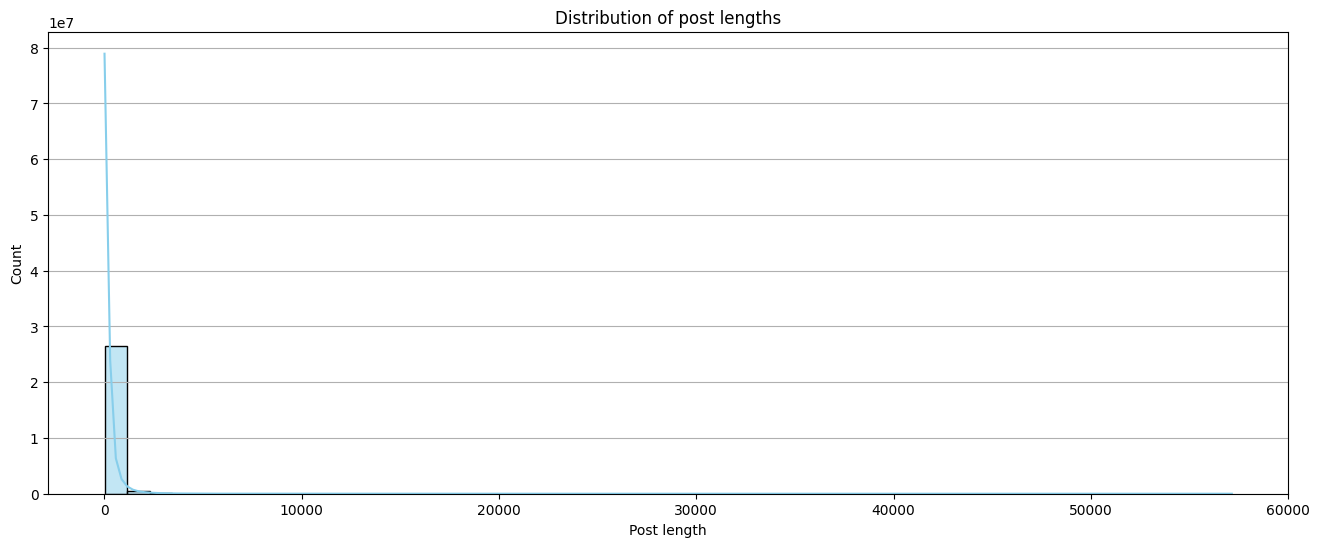
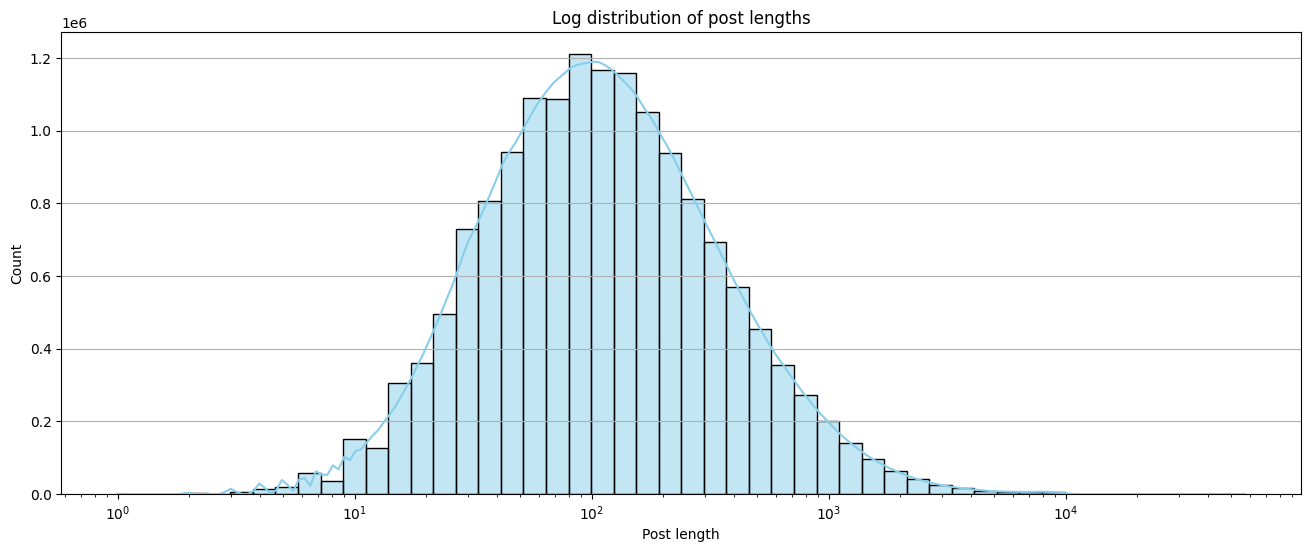
Update EDA.py, distOfPostLengths.png, distOfTypes.png, and 2 more files

diff --git a/EDA.py b/EDA.py
@@ -28,14 +28,15 @@ def basic_stats(ds):
 	ds["postLengths"] = ds["posts"].apply(len)
 	print(f"Post length describe:\n{ds.groupby('type')['postLengths'].describe()}")
 
+
 def visualize(ds):
 	'''
 	Visualize the dataset
 	'''
-	plt.figure(figsize=(16, 6)) # width, height of plots
+	plt.figure(figsize=(16, 6))
 
 	# distribution of types
-	sns.countplot(data=ds, x="type", order=ds["type"].value_counts().index, palette="viridis") # order by value counts. "viridis" is a color palette
+	sns.countplot(data=ds, x="type", order=ds["type"].value_counts().index, palette="magma") # order by value counts. "magma" is a color palette
 	plt.title("Distribution of types")
 	plt.ylabel("Count")
 	plt.xlabel("Type")
@@ -44,29 +45,32 @@ def visualize(ds):
 
 	# histogram for post lengths
 	plt.figure(figsize=(16, 6))
-	sns.histplot(ds["postLengths"], bins=50, color="skyblue", kde=True) # bins is the number of bars. kde is the density line
-	plt.title("Distribution of post lengths")
-	plt.ylabel("Count")
-	plt.xlabel("Post length")
+	sns.histplot(ds["postLengths"], bins=50, kde=True, log_scale=True) # bins is the number of bars. kde is the density line
+	plt.title("Log distribution of post lengths")
+	plt.ylabel("Count") # count of posts
+	plt.xlabel("Post length in characters") # length of posts
 	plt.grid(axis="y")
 	display(plt.show())
+	print(ds["postLengths"].describe())
 
 	# mean number of words per post
 	ds["nWords"] = ds["posts"].apply(lambda x: len(tokenize(x)))
 	meanWordsPerPost = ds.groupby("type")["nWords"].mean().sort_values(ascending=False)
 	plt.figure(figsize=(16, 6))
-	sns.barplot(x=meanWordsPerPost.index, y=meanWordsPerPost.values, palette="viridis")
+	sns.barplot(x=meanWordsPerPost.index, y=meanWordsPerPost.values, palette="magma")
 	plt.title("Mean number of words per post")
 	plt.ylabel("Mean number of words")
 	plt.xlabel("Type")
 	plt.grid(axis="y")
 	display(plt.show())
 
+
 def tokenize(posts):
 	'''
 	Tokenize the posts
 	'''
 	return posts.lower().replace("|||", " ").split()
+
 
 def gen_wordclouds(ds, type, nWords):
 	'''
@@ -91,27 +95,32 @@ def gen_wordclouds(ds, type, nWords):
 		plt.title(f"Wordcloud for {t} type")
 		display(plt.show())
 
+
 def plot_word_frequency(ds, words):
 	'''
 	Plot the frequency of words given as input
 	'''
-	# count the frequency of words for each type
 	totalCounts = defaultdict(int)
 	typeWordCounts = defaultdict(lambda: defaultdict(int))
-
 	typeCounts = ds["type"].value_counts()
+	try:
+		# count the frequency of words for each type>
+		def count_words(row):
+			post = row["posts"]
+			type = row["type"]
+			for w in words:
+				count = str(post).split().count(w)
+				totalCounts[w] += count
+				if w not in typeWordCounts[type]:
+					typeWordCounts[type][w] = 0
+				typeWordCounts[type][w] += count
 
-	def count_words(row):
-		post = row["posts"]
-		type = row["type"]
-		for w in words:
-			count = str(post).split().count(w)
-			totalCounts[w] += count
-			typeWordCounts[type][w] += count
+		ds.apply(count_words, axis=1)
 
-	ds.apply(count_words, axis=1)
-
-	meanFreqs = {word: {type: counts.get(word, 0) / typeCounts[type] for type, count in counts.items()} for word, counts in typeWordCounts.items()}
+		meanFreqs = {word: {type: counts.get(word, 0) / typeCounts[type] for type, count in counts.items()} for word, counts in typeWordCounts.items()}
+	except Exception as e:
+		print(e)
+		raise e
 
 	gc.collect()
 
@@ -137,16 +146,17 @@ def plot_word_frequency(ds, words):
 	
 
 if __name__ == "__main__":
-	ds = pd.read_csv("datasets/personality/MBTI/mbti_all_deduplicated_filtered.csv", dtype={"type": "category", "posts": "string"})
+	if "ds" not in locals(): # don't load the dataset if it's already loaded - Jupyter notebooks
+		ds = pd.read_csv("datasets/personality/MBTI/mbti_all_deduplicated_filtered.csv", dtype={"type": "category", "posts": "string"})
 
 	# sanity checks
 	print(ds.head())
-	print(ds["type"].value_counts())
-	print("Shape:", ds.shape)
 	print("Columns:", ds.columns)
 	print("Describe:", ds.describe())
 
-	basic_stats(ds)
-	visualize(ds)
+	#basic_stats(ds)
+	#visualize(ds)
 	# gen_wordclouds(ds, ["ISTJ", "ISFJ", "INFJ", "INTJ", "ISTP", "ISFP", "INFP", "INTP", "ESTP", "ESFP", "ENFP", "ENTP", "ESTJ", "ESFJ", "ENFJ", "ENTJ"], 100) # explore all types
+	print(f"The count of occurences of the word \"sex\" in the dataset: {ds['posts'].str.contains('sex').sum()}")
+	breakpoint()
 	plot_word_frequency(ds, ["sex"])

diff --git a/trainRoBERTa.py b/trainRoBERTa.py
@@ -4,7 +4,7 @@ This mod fine-tunes a RoBERTa model on the ACARIS dataset for comparison with AC
 
 import torch
 from torch import nn
-from torch.utils.data import Dataset, DataLoader
+from torch.utils.data import DataLoader
 from transformers import RobertaTokenizerFast, RobertaForSequenceClassification, TrainingArguments, Trainer, AdamW, EarlyStoppingCallback
 from datasets import load_dataset, Dataset
 import pandas as pd
@@ -23,7 +23,7 @@ config = {
     "earlyStoppingPatience": 2
 }
 
-wandb.init(project="MarkIII_ACARIS", entity="simtoonia", config=config)
+wandb.init(project="MarkIV_ACARIS", entity="simtoonia", config=config) # this project is now under MarkIV (branch: @v2)
 
 l2id = {"pos": 2, "neg": 0, "neu": 1}
 id2l = {2: "pos", 0: "neg", 1: "neu"}
